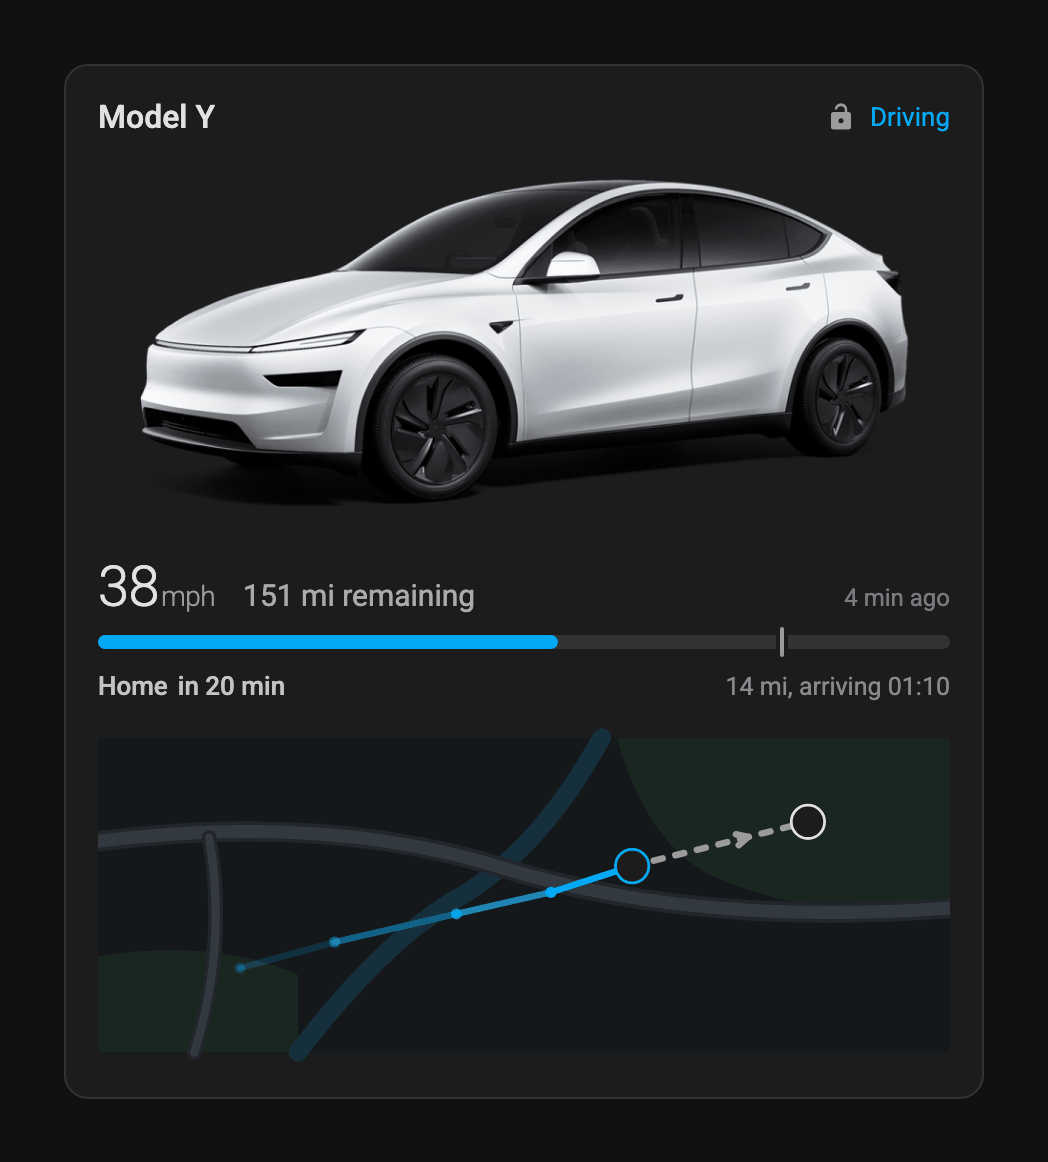
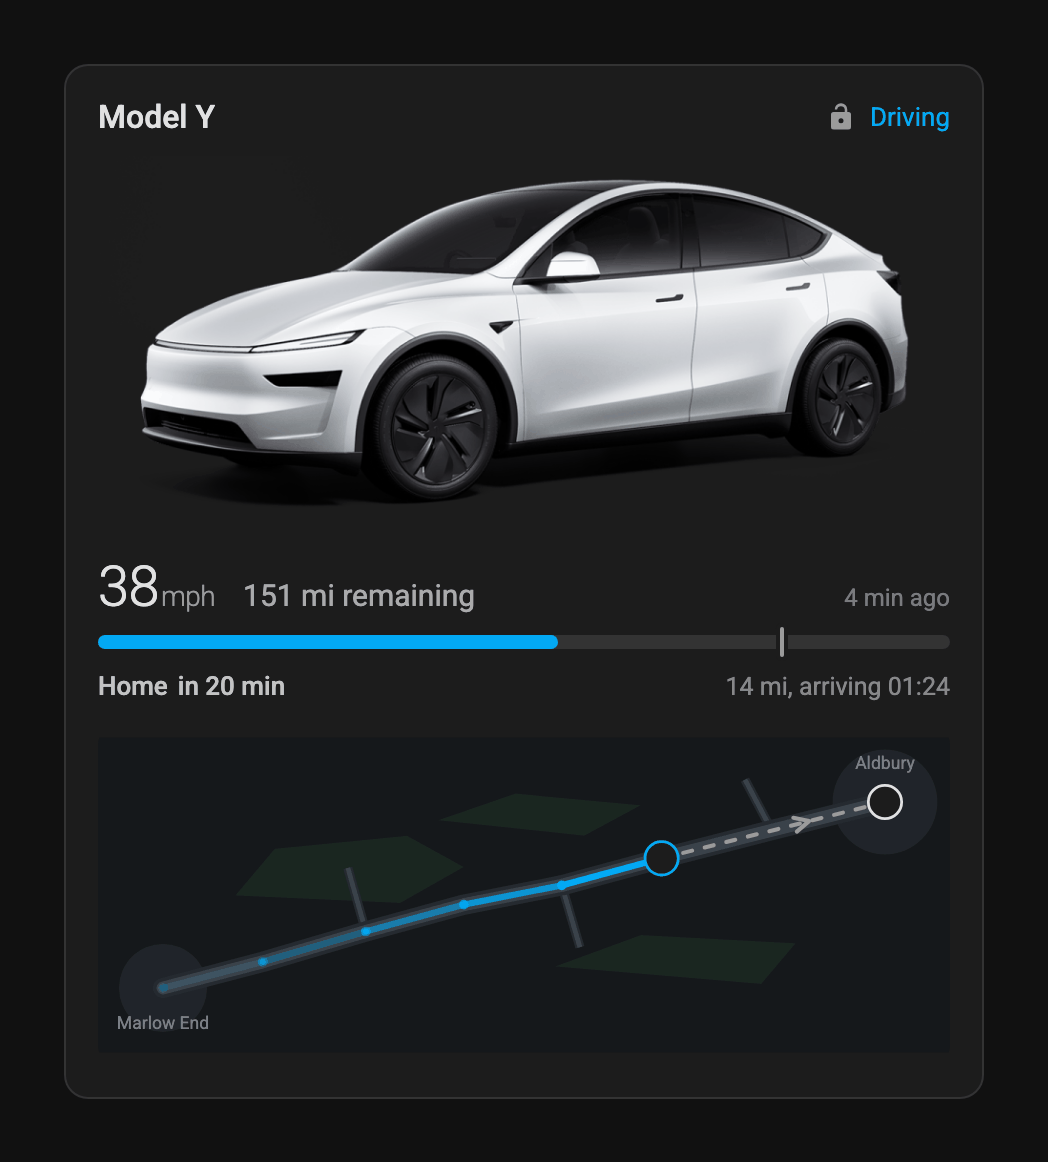
Put the journey on a road between two towns
The map in the screenshots was a car driving over a river and across a field,
because the roads were decoration invented in the drawing's own coordinates
while the journey came from latitude and longitude. Nothing related to
anything else.

The scene is now defined in the same coordinates as the journey: two towns, a
main road between them, a few side roads and some open country. The trail is
a slice of that road rather than a separate list, and the car marker and the
destination are taken from the same array, so the blue line cannot end short
of the car or wander off the tarmac.

It reads as leaving one town, driving the main road, and heading for the next,
which is what someone looking at the readme is trying to understand.

Changed region(s): [[0.0916, 0.6196, 0.916, 0.9294], [0.8855, 0.5886, 0.916, 0.6196]]

diff --git a/test/shot.html b/test/shot.html
@@ -60,9 +60,77 @@
         )
       }
 
-      // Home Assistant renders the map itself. This stand-in plots the real
-      // points the card hands over, so the shape shown is the card's own
-      // output rather than an illustration.
+      /**
+       * The route the car is driving, west to east: out of one town, along a
+       * main road, into the next. Everything on the map is defined in the same
+       * latitude and longitude as the journey, so the trail runs along the
+       * road instead of across whatever the illustration happened to contain.
+       */
+      const ROAD = [
+        [51.44, -1.02],
+        [51.4495, -0.962],
+        [51.4605, -0.902],
+        [51.4702, -0.845],
+        [51.4772, -0.788],
+        [51.487, -0.73],
+        [51.4972, -0.666],
+        [51.5074, -0.6]
+      ]
+      /**
+       * Where the car has got to: the trail must end exactly at its marker,
+       * so both come from the same slice of the road rather than being
+       * written out twice and drifting apart.
+       */
+      const AT = 5
+      const DRIVEN = ROAD.slice(0, AT + 1)
+      const CAR = ROAD[AT]
+      const DESTINATION = ROAD[ROAD.length - 1]
+      const TOWNS = [
+        { at: ROAD[0], name: 'Marlow End', r: 0.016 },
+        { at: ROAD[ROAD.length - 1], name: 'Aldbury', r: 0.019 }
+      ]
+      // Side roads leaving the main one, long enough to read as junctions
+      // rather than tick marks.
+      const LANES = [
+        [
+          [51.4605, -0.902],
+          [51.4835, -0.9125]
+        ],
+        [
+          [51.4772, -0.788],
+          [51.4548, -0.7775]
+        ],
+        [
+          [51.4972, -0.666],
+          [51.5155, -0.6815]
+        ]
+      ]
+      // Open country either side of the road, large enough to read as fields.
+      const GREEN = [
+        [
+          [51.4735, -0.978],
+          [51.4905, -0.955],
+          [51.4952, -0.878],
+          [51.4838, -0.845],
+          [51.4708, -0.882]
+        ],
+        [
+          [51.4478, -0.792],
+          [51.4592, -0.742],
+          [51.4562, -0.652],
+          [51.4415, -0.672]
+        ],
+        [
+          [51.5008, -0.86],
+          [51.5105, -0.815],
+          [51.5062, -0.742],
+          [51.4952, -0.775]
+        ]
+      ]
+
+      // Home Assistant renders the map itself. This stand-in projects the same
+      // coordinates the card hands over, so what is drawn is the card's own
+      // output on a coherent piece of ground.
       if (!customElements.get('ha-map')) {
         customElements.define(
           'ha-map',
@@ -77,9 +145,6 @@
                 }
               }
               this._props = {}
-              // The real component redraws when its properties change; the
-              // card only supplies layers on its second render, once it has
-              // found Leaflet.
               for (const name of ['entities', 'paths', 'layers']) {
                 Object.defineProperty(this, name, {
                   get: () => this._props[name],
@@ -99,13 +164,11 @@
             }
             _draw() {
               const dark = document.body.classList.contains('dark')
-              const dark0 = dark
               const paths = this.paths || []
-              // ha-entity-marker: a circle sized by --ha-marker-size, filled
-              // with the card background and outlined in the entity colour.
               const cs = getComputedStyle(this)
               const size = parseFloat(cs.getPropertyValue('--ha-marker-size')) || 48
-              const cardBg = dark0 ? '#1c1c1c' : '#ffffff'
+              const cardBg = dark ? '#1c1c1c' : '#ffffff'
+
               const marks = []
               for (const e of this.entities || []) {
                 const id = typeof e === 'string' ? e : e.entity_id
@@ -115,61 +178,68 @@
                   marks.push({ at: [a.latitude, a.longitude], colour })
                 }
               }
-              // The bearing is a Leaflet layer now, so its ends come from the
-              // markers rather than from paths.
+
+              // Fit the road as well as the journey, so both towns are in view.
               const all = [
+                ...ROAD,
                 ...marks.map((m) => m.at),
                 ...paths.flatMap((p) => p.points.map((q) => q.point)),
                 ...(this._drawn || []).flatMap((d) => d.points)
               ]
               if (!all.length) return
+
               const lats = all.map((p) => p[0])
               const lons = all.map((p) => p[1])
               const w = 460
               const h = 170
-              // One scale for both axes, as a real map has. Scaling longitude
-              // and latitude independently would skew anything angular drawn
-              // on it, an arrowhead most visibly.
+              // One scale for both axes, as a real map has.
               const midLat = (Math.max(...lats) + Math.min(...lats)) / 2
               const kx = Math.cos((midLat * Math.PI) / 180) || 1
-              const cLat = midLat
               const cLon = (Math.max(...lons) + Math.min(...lons)) / 2
               const spanLat = Math.max(...lats) - Math.min(...lats) || 0.02
               const spanLon = (Math.max(...lons) - Math.min(...lons)) * kx || 0.02
-              const pad = 1.5
-              const scale = Math.min(w / (spanLon * pad), h / (spanLat * pad))
+              const scale = Math.min(w / (spanLon * 1.18), h / (spanLat * 1.5))
               const x = (lon) => w / 2 + (lon - cLon) * kx * scale
-              const y = (lat) => h / 2 - (lat - cLat) * scale
+              const y = (lat) => h / 2 - (lat - midLat) * scale
 
               const land = dark ? '#15181b' : '#f4f5f2'
-              const park = dark ? '#1a2620' : '#e3ecdd'
-              const water = dark ? '#15303c' : '#cbe0ee'
-              const road = dark ? '#333940' : '#ffffff'
-              const casing = dark ? '#22262b' : '#e0e4de'
+              const built = dark ? '#20242a' : '#e8e8e4'
+              const green = dark ? '#1a2620' : '#e3ecdd'
+              const road = dark ? '#3a424a' : '#ffffff'
+              const casing = dark ? '#252a30' : '#e0e4de'
+              const label = dark ? '#79818b' : '#7a828c'
 
+              const line = (pts) =>
+                pts.map((p, i) => `${i ? 'L' : 'M'} ${x(p[1]).toFixed(1)} ${y(p[0]).toFixed(1)}`).join(' ')
               const pathEl = (p, extra) =>
                 `<path d="${p.points
                   .map((q, i) => `${i ? 'L' : 'M'} ${x(q.point[1]).toFixed(1)} ${y(q.point[0]).toFixed(1)}`)
-                  .join(' ')}" fill="none" stroke="${p.color}" stroke-width="3.5"
+                  .join(' ')}" fill="none" stroke="${p.color}"
                   stroke-linecap="round" stroke-linejoin="round" ${extra}/>`
 
               this.innerHTML = `<svg viewBox="0 0 ${w} ${h}" width="100%" height="100%">
                 <rect width="${w}" height="${h}" fill="${land}"/>
-                <path d="M280 0 H${w} V90 Q400 104 330 74 Q296 56 280 0Z" fill="${park}"/>
-                <path d="M0 118 Q62 108 108 128 L108 ${h} H0Z" fill="${park}"/>
-                <path d="M108 ${h} Q152 112 192 88 Q238 62 272 0" stroke="${water}"
-                  stroke-width="10" fill="none" stroke-linecap="round"/>
-                <g fill="none" stroke-linecap="round">
-                  <path d="M0 56 Q126 40 224 72 Q326 102 ${w} 92" stroke="${casing}" stroke-width="11"/>
-                  <path d="M0 56 Q126 40 224 72 Q326 102 ${w} 92" stroke="${road}" stroke-width="7"/>
-                  <path d="M52 ${h} Q70 112 60 54" stroke="${casing}" stroke-width="8"/>
-                  <path d="M52 ${h} Q70 112 60 54" stroke="${road}" stroke-width="4.5"/>
-                </g>
+                ${GREEN.map((g) => `<path d="${line(g)} Z" fill="${green}"/>`).join('')}
+                ${TOWNS.map(
+                  (t) =>
+                    `<circle cx="${x(t.at[1]).toFixed(1)}" cy="${y(t.at[0]).toFixed(1)}"
+                      r="${(t.r * scale).toFixed(1)}" fill="${built}"/>`
+                ).join('')}
+                ${LANES.map((l) => `<path d="${line(l)}" fill="none" stroke="${casing}" stroke-width="5"/>`).join('')}
+                ${LANES.map((l) => `<path d="${line(l)}" fill="none" stroke="${road}" stroke-width="2.6"/>`).join('')}
+                <path d="${line(ROAD)}" fill="none" stroke="${casing}" stroke-width="11"
+                  stroke-linecap="round" stroke-linejoin="round"/>
+                <path d="${line(ROAD)}" fill="none" stroke="${road}" stroke-width="7"
+                  stroke-linecap="round" stroke-linejoin="round"/>
+                ${TOWNS.map(
+                  (t, i) =>
+                    `<text x="${x(t.at[1]).toFixed(1)}" y="${(y(t.at[0]) + (i ? -18 : 22)).toFixed(1)}"
+                      fill="${label}" font-size="9.5" font-family="Roboto,sans-serif"
+                      text-anchor="middle">${t.name}</text>`
+                ).join('')}
                 ${paths
                   .flatMap((p) => {
-                    if (!p.gradualOpacity) return [pathEl(p, '')]
-                    // ha-map draws each leg separately, fading towards the
-                    // oldest fix, and a dot at every point.
+                    if (!p.gradualOpacity) return [pathEl(p, 'stroke-width="3"')]
                     const step = p.gradualOpacity / Math.max(p.points.length - 2, 1)
                     const base = 1 - p.gradualOpacity
                     const out = []
@@ -178,12 +248,12 @@
                       out.push(
                         pathEl(
                           { points: [p.points[i], p.points[i + 1]], color: p.color },
-                          `stroke-width="3" opacity="${o}"`
+                          `stroke-width="3.4" opacity="${o}"`
                         )
                       )
                       out.push(
                         `<circle cx="${x(p.points[i].point[1]).toFixed(1)}"
-                          cy="${y(p.points[i].point[0]).toFixed(1)}" r="3"
+                          cy="${y(p.points[i].point[0]).toFixed(1)}" r="2.6"
                           fill="${p.color}" opacity="${o}"/>`
                       )
                     }
@@ -194,9 +264,7 @@
                   .map((d) =>
                     pathEl(
                       { points: d.points.map((pt) => ({ point: pt })), color: d.opts.color },
-                      `stroke-width="2.5"${
-                        d.opts.dashArray ? ` stroke-dasharray="${d.opts.dashArray}"` : ''
-                      }`
+                      `stroke-width="2.2"${d.opts.dashArray ? ` stroke-dasharray="${d.opts.dashArray}"` : ''}`
                     )
                   )
                   .join('')}
@@ -267,13 +335,7 @@
                 const now = Math.floor(Date.now() / 1000)
                 // Five fixes eight minutes apart, which is about what a
                 // ten-minute poll gives you on a forty minute drive.
-                const track = [
-                  [51.44, -1.02],
-                  [51.452, -0.95],
-                  [51.465, -0.86],
-                  [51.475, -0.79],
-                  [51.487, -0.73]
-                ]
+                const track = DRIVEN
                 const states = track.map(([lat, lon], i) => ({
                   a: { latitude: lat, longitude: lon },
                   lu: now - (track.length - 1 - i) * 480
@@ -312,8 +374,11 @@
         shiftState: { state: 'd' },
         speed: { state: '38', attributes: { unit_of_measurement: 'mph' } },
         locked: { state: 'unlocked' },
-        location: { state: 'not_home', attributes: { latitude: 51.487, longitude: -0.73 } },
-        route: { state: 'not_home', attributes: { latitude: 51.5074, longitude: -0.6 } },
+        location: { state: 'not_home', attributes: { latitude: CAR[0], longitude: CAR[1] } },
+        route: {
+          state: 'not_home',
+          attributes: { latitude: DESTINATION[0], longitude: DESTINATION[1] }
+        },
         arrivalTime: { state: new Date(Date.now() + 20 * 60000).toISOString() },
         distanceToArrival: { state: '14', attributes: { unit_of_measurement: 'mi' } },
         destination: { state: 'Home' }

diff --git a/README.md b/README.md
@@ -4,7 +4,7 @@ A Home Assistant dashboard card for vehicles on the [Tesla Fleet][fleet] integra
 at your car and it works out the rest: model, model year, body generation and every entity it
 needs.
 
-![The card parked, and driving with a route set](https://raw.githubusercontent.com/alexluckett/tesla-card/main/docs/preview.png?v=20260910)
+![The card parked, and driving with a route set](https://raw.githubusercontent.com/alexluckett/tesla-card/main/docs/preview.png?v=20260910b)
 
 ## Install
 
@@ -68,7 +68,7 @@ polls every ten minutes, so **asleep is the common state** and driving is the ra
 - **Charging** — the gauge fills in green, and a slow sheen runs along it while energy flows.
 - **Driving** — speed leads instead of charge.
 
-![Parked, charging, driving and asleep](https://raw.githubusercontent.com/alexluckett/tesla-card/main/docs/states.png?v=20260910)
+![Parked, charging, driving and asleep](https://raw.githubusercontent.com/alexluckett/tesla-card/main/docs/states.png?v=20260910b)
 
 The mark on the charge gauge is your **charge limit**, read from the car.
 
@@ -77,7 +77,7 @@ The mark on the charge gauge is your **charge limit**, read from the car.
 Every colour comes from a Home Assistant token, so the card follows whatever theme is running.
 Nothing is hard-coded.
 
-![The same card on a dark and a light theme](https://raw.githubusercontent.com/alexluckett/tesla-card/main/docs/themes.png?v=20260910)
+![The same card on a dark and a light theme](https://raw.githubusercontent.com/alexluckett/tesla-card/main/docs/themes.png?v=20260910b)
 
 The screenshots throughout use Pearl White; set `paint` to whichever of the seven your car is.
 
@@ -114,7 +114,7 @@ the card does not do that.
 
 Tesla does not publish the road route, so nothing on the map pretends to be one.
 
-![Driving with the map showing the bearing to the destination](https://raw.githubusercontent.com/alexluckett/tesla-card/main/docs/map.png?v=20260910)
+![Driving with the map showing the bearing to the destination](https://raw.githubusercontent.com/alexluckett/tesla-card/main/docs/map.png?v=20260910b)
 
 The map above is drawn from the coordinates and paths the card passes, including a trail the
 card built from real history; Home Assistant renders the cartography itself, in your theme.
@@ -152,7 +152,7 @@ They show what they control rather than just offering a switch: the lock reads `
 active is tinted. So the row doubles as a second status line and is worth having on screen even
 when you rarely press it.
 
-![Controls at rest, and with charging, climate and sentry active](https://raw.githubusercontent.com/alexluckett/tesla-card/main/docs/controls.png?v=20260910)
+![Controls at rest, and with charging, climate and sentry active](https://raw.githubusercontent.com/alexluckett/tesla-card/main/docs/controls.png?v=20260910b)
 
 Controlling a Tesla needs command signing set up in the integration; if you have not done that,
 leave this off.
